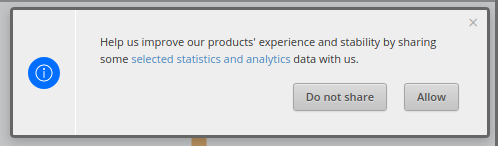
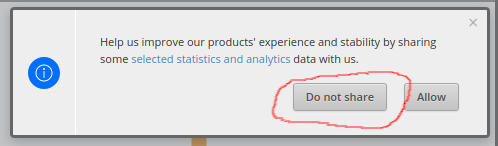
Capture more screenshots and fix up the instructions a fair bit

diff --git a/source/base/ubiquiti.rst b/source/base/ubiquiti.rst
@@ -1,22 +1,23 @@
-Rebuilding EdgeRouter
----------------------
+Rebuilding EdgeRouter X
+-----------------------
 
-#. Boot router with "factory defaults" (refer to "quick start guide").
+#. Boot router with "factory defaults" (refer to "quick start guide";  eth1 will DHCP and give eth0 24V).
 #. Login to the web UI with "ubnt:ubnt".
 #. Make sure the firmware is up-to-date.
-#. Decline to send data to Ubiquiti and do not start any wizards.
-#. Disable "UNMS Connection (beta)" and "UBNT Discovery" and click save.
-#. Set the hostname and click save.
+#. Decline to send data to Ubiquiti and skip starting any wizards for now.
+#. Set the hostname, disable "UNMS Connection (beta)" and "UBNT Discovery".
+#. Login via SSH and install wireguard-vyatta-ubnt.  STOP HERE IF PREPPING A SPARE ROUTER.  (See below.)
 #. Enable "Traffic Analysis".
-#. Turn on "Smart Queue" QoS:  Policy name 'lte', WAN interface "eth0", set upload and download rates
-#. Login via SSH and install wireguard-vyatta-ubnt.  STOP HERE IF PREPPING A SPARE ROUTER.
+#. Turn on QoS "Smart Queue":  Policy name 'lte', WAN Interface "eth0", Upload and Download Rates set appropriately.
 #. Use the "Basic Setup" wizard (set LAN port address and new password).
-#. Boot router "normally" and put it into full service.
-#. Login to the web UI with new username/password.
-#. Switch to using dnsmasq for DHCP.
+#. Boot router "normally" and put it into full service and log in to the web UI with the new password.
+#. Fix the DHCP range start and stop addresses.  (See below.)
+#. Switch to using dnsmasq for DHCP and DNS.  (See below.)
 #. Reboot.
 
 .. image:: disable_sharing_data.png
+.. image:: traffic_analysys_enable.png
+.. image:: traffic_analysys_accept.png
 .. image:: start_wizard.png
 
 * https://github.com/WireGuard/wireguard-vyatta-ubnt
@@ -24,8 +25,30 @@ Rebuilding EdgeRouter
 * https://www.ui.com/download/edgemax/edgeswitch
 
 
-Configuring EdgeRouter
-----------------------
+Installing Wireguard
+--------------------
+
+* https://github.com/WireGuard/wireguard-vyatta-ubnt/wiki/EdgeOS-and-Unifi-Gateway
+* https://github.com/WireGuard/wireguard-vyatta-ubnt/releases
+
+::
+
+    curl -OL https://github.com/WireGuard/wireguard-vyatta-ubnt/releases/download/1.0.20210606-3/e50-v2-v1.0.20210606-v1.0.20210914.deb
+    sudo dpkg -i e50-v2-v1.0.20210606-v1.0.20210914.deb
+    rm e50-v2-v1.0.20210606-v1.0.20210914.deb
+
+
+DHCP Server
+-----------
+
+Subnet 172.23.0.0/24
+Range start 172.23.0.51
+Range stop 172.23.0.150
+Router 172.23.0.1
+
+
+Switching DHCP and DNS to dnsmasq
+---------------------------------
 
 * https://kb.intermedia.net/Article/44415
 * https://ragingtiger.github.io/2018/04/29/ubq-erx-router-setup/
